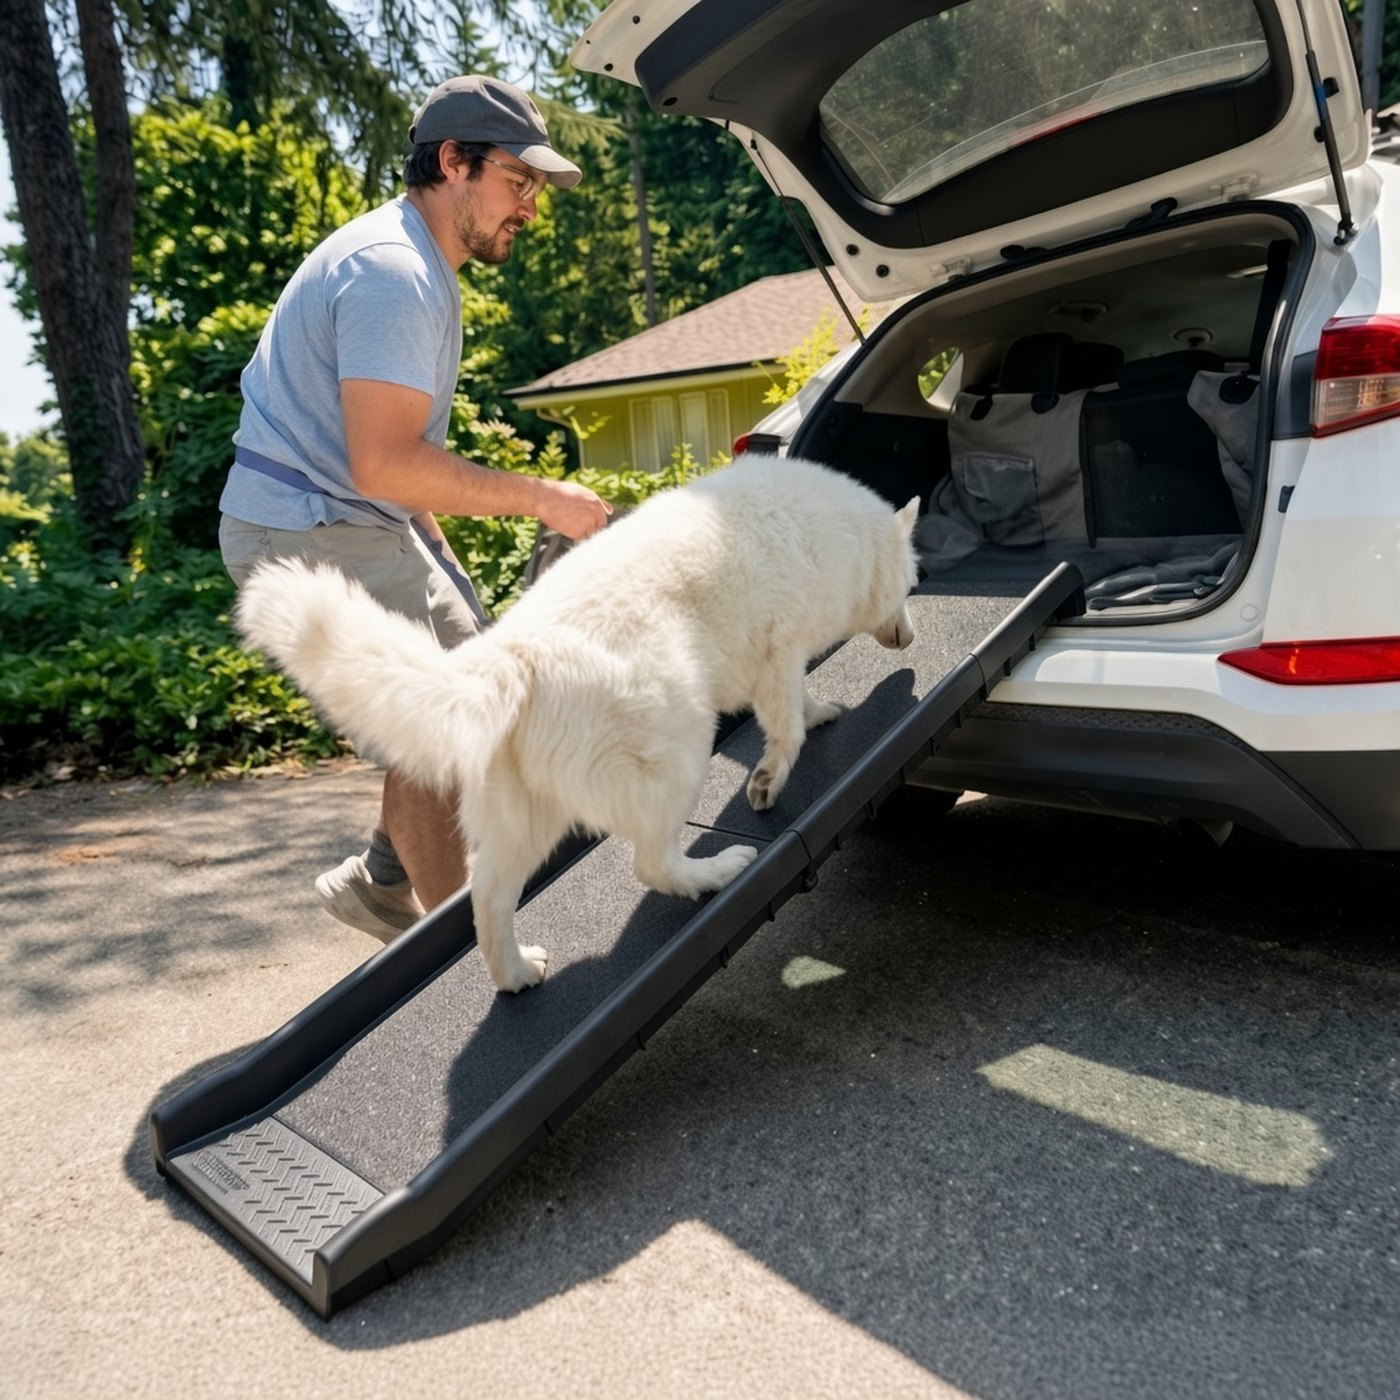
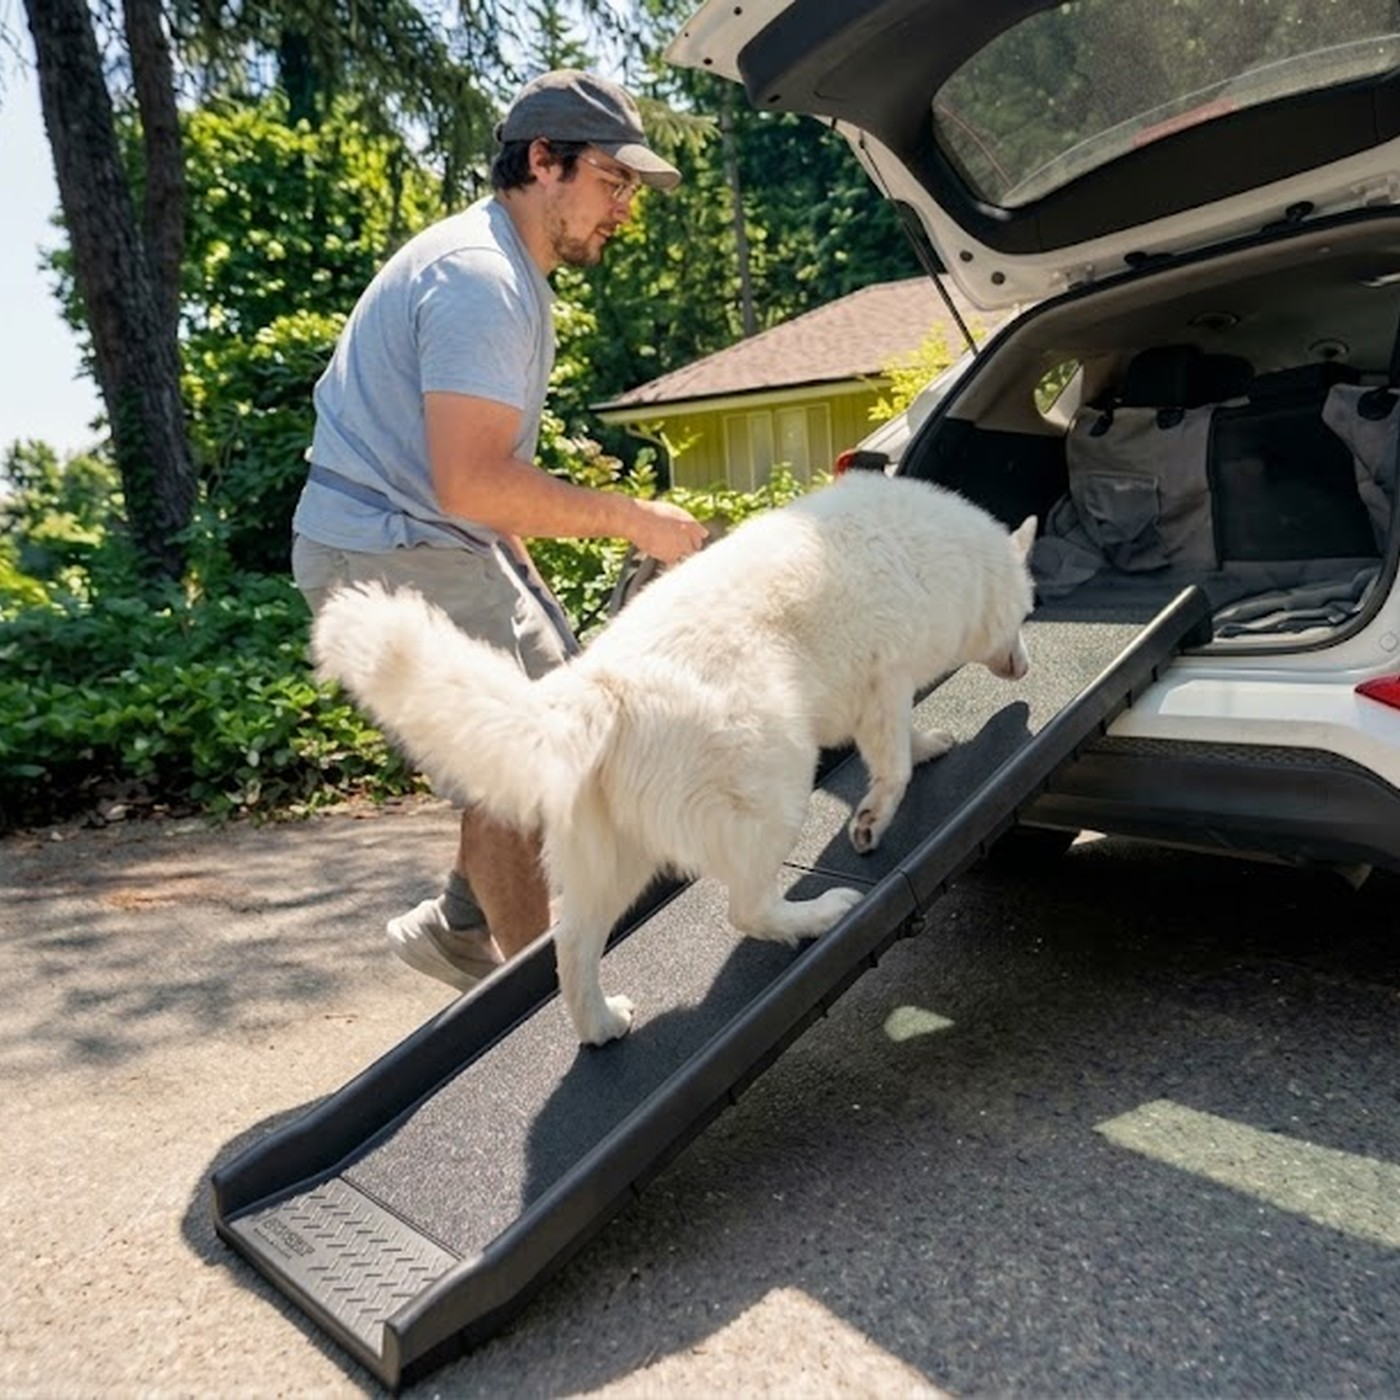
Give the homepage photo a product link and a sharper voice.
The hatchback photo opens the foldable car ramp and names what is in the frame. Shop copy across the homepage, catalog, guide, and footer is more specific, with no new claims. Four lifestyle photos are replaced with the newer set, still on the 1400 square canvas.

diff --git a/src/lib/catalog.ts b/src/lib/catalog.ts
@@ -42,8 +42,8 @@ export const CATALOG: readonly CatalogProduct[] = [
     slug: 'foldable-dog-car-ramp',
     shopifyHandle: PRODUCT_HANDLES.heroRamp,
     name: 'Paw-Grip Foldable Dog Car Ramp',
-    caption: 'Walks into the cargo area',
-    summary: 'Bi-fold car ramp with a Paw-Grip grit deck. Compact rated to 150 lb, Extended to 250 lb.',
+    caption: 'The walk into the cargo area',
+    summary: 'A bi-fold ramp with a grit deck and raised rails. Compact is rated to 150 lb and folds to 31″. Extended reaches 70″ and is rated to 250 lb.',
     price: TIERS[0].price,
     rating: 4.8,
     ratingCount: 214,
@@ -65,8 +65,8 @@ export const CATALOG: readonly CatalogProduct[] = [
     slug: 'side-door-pet-steps',
     shopifyHandle: PRODUCT_HANDLES.sideDoorSteps,
     name: 'Paw-Grip Side Door Pet Steps',
-    caption: 'Into the back seat',
-    summary: 'Steps that meet a vehicle side door, so a dog climbs into the back seat instead of being lifted.',
+    caption: 'The climb into the back seat',
+    summary: 'Steps that meet a side-door sill, with a platform at the top, so a dog walks into the back seat instead of being lifted over it.',
     price: 149.95,
     rating: 4.6,
     ratingCount: 73,
@@ -93,8 +93,8 @@ export const CATALOG: readonly CatalogProduct[] = [
     slug: 'bed-ramp',
     shopifyHandle: PRODUCT_HANDLES.bedRamp,
     name: 'Paw-Grip Bed Ramp',
-    caption: 'Up to the mattress',
-    summary: 'A ramp from the floor to the bed for a dog that has stopped jumping up.',
+    caption: 'From the floor to the mattress',
+    summary: 'A carpeted ramp that stays beside the bed, for a dog who has started hesitating before the jump up.',
     price: 129.95,
     rating: 4.7,
     ratingCount: 118,
@@ -131,8 +131,8 @@ export const CATALOG: readonly CatalogProduct[] = [
     slug: 'extra-long-telescoping-dog-ramp',
     shopifyHandle: PRODUCT_HANDLES.extraLongRamp,
     name: 'Paw-Grip Extra Long Telescoping Ramp',
-    caption: 'For tall truck beds',
-    summary: 'Telescopes from 47″ to 87″ when the cargo floor is too high for a fixed ramp.',
+    caption: 'When the truck bed is too high',
+    summary: 'Slides out from 47″ to 87″, so a tall cargo floor gets a longer, gentler slope, then collapses for the garage.',
     price: 189,
     rating: 4.5,
     ratingCount: 64,
@@ -154,8 +154,8 @@ export const CATALOG: readonly CatalogProduct[] = [
     slug: 'compact-telescoping-dog-ramp',
     shopifyHandle: PRODUCT_HANDLES.compactTelescoping,
     name: 'Paw-Grip Compact Telescoping Ramp',
-    caption: 'The short trunk',
-    summary: 'Telescopes from 28″ to 70″. The one that still fits a smaller trunk.',
+    caption: 'Length when you need it',
+    summary: 'Three sections that open from 28″ to 70″. Long enough for the cargo floor, short enough to live in a smaller trunk.',
     price: 159.99,
     rating: 4.3,
     ratingCount: 29,
@@ -177,8 +177,8 @@ export const CATALOG: readonly CatalogProduct[] = [
     slug: 'orthopedic-foam-bed-steps',
     shopifyHandle: PRODUCT_HANDLES.bedSteps,
     name: 'Paw-Grip Foam Bed Steps',
-    caption: 'Two steps to the couch',
-    summary: 'Foam steps for a couch or a low bed. Light enough to move between rooms.',
+    caption: 'The short climb to the couch',
+    summary: 'Foam steps you can carry from the couch to a low bed. Two sizes, rated to 80 lb, for the jump that happens all day inside the house.',
     price: 65,
     rating: 4.4,
     ratingCount: 41,
@@ -210,8 +210,8 @@ export const CATALOG: readonly CatalogProduct[] = [
     slug: 'dog-hitch-step',
     shopifyHandle: PRODUCT_HANDLES.hitchStep,
     name: 'Paw-Grip Hitch Step',
-    caption: 'A step at the tailgate',
-    summary: 'A hitch-mounted step for dogs who do better with one step than a long ramp.',
+    caption: 'One step at the tailgate',
+    summary: 'Mounts on the hitch and folds up for the drive. For the dog who plants a paw on a step more willingly than on a long ramp.',
     price: 89.95,
     rating: 4.6,
     ratingCount: 52,
@@ -253,8 +253,8 @@ export const CATALOG: readonly CatalogProduct[] = [
     slug: 'folding-pet-steps',
     shopifyHandle: PRODUCT_HANDLES.foldingSteps,
     name: 'Paw-Grip Folding Pet Steps',
-    caption: 'Flattens for the closet',
-    summary: 'Folding steps for inside the house. They flatten when you need the floor back.',
+    caption: 'Up for the evening, flat by morning',
+    summary: 'Folding steps for the couch or a low bed. They stand for the climb, then flatten when the room needs its floor back.',
     price: 74.95,
     rating: 4.5,
     ratingCount: 88,
@@ -291,8 +291,8 @@ export const CATALOG: readonly CatalogProduct[] = [
     slug: 'traction-mat',
     shopifyHandle: PRODUCT_HANDLES.tractionMat,
     name: 'Heavy-Duty Traction Mat (2-Pack)',
-    caption: 'Under the ramp',
-    summary: 'A mat under the feet of the ramp so it stays put on a smooth garage floor.',
+    caption: 'So the ramp stays planted',
+    summary: 'A pair of mats under the ramp feet. On a polished garage floor, they keep the ramp from creeping the moment a dog steps on.',
     price: ADDON_PRICES.tractionMat,
     rating: 4.7,
     ratingCount: 36,
@@ -308,8 +308,8 @@ export const CATALOG: readonly CatalogProduct[] = [
     slug: 'car-safety-tether',
     shopifyHandle: PRODUCT_HANDLES.carTether,
     name: 'Adjustable Car Safety Tether',
-    caption: 'Once they are in',
-    summary: 'An adjustable tether that clips to a harness so a dog can sit, stand, or lie down in the car.',
+    caption: 'Settled for the drive',
+    summary: 'Clips to a harness and the seatbelt. Enough slack to sit, stand, or lie down — not enough to roam the cabin.',
     price: ADDON_PRICES.carTether,
     rating: 4.6,
     ratingCount: 44,

diff --git a/src/pages/HomePage.tsx b/src/pages/HomePage.tsx
@@ -7,7 +7,7 @@ import { ProductCard } from '../components/ProductCard';
 const JOBS = [
   {
     title: 'Into the cargo area',
-    caption: 'The bi-fold, for SUVs and hatchbacks',
+    caption: 'The bi-fold grit ramp, for the cargo floor of an SUV or a hatchback',
     image: '/assets/product/grit/ramp-german-shepherd-suv.jpg',
     alt: 'A German Shepherd walking up a ramp into an SUV',
     frame: 'lg:object-[center_22%]',
@@ -15,7 +15,7 @@ const JOBS = [
   },
   {
     title: 'Into the back seat',
-    caption: 'Steps at the side door',
+    caption: 'Steps that meet the sill, so the back seat is a walk, not a lift',
     image: '/assets/catalog/side-door-steps.jpg',
     alt: 'Pet steps at a vehicle side door',
     frame: 'lg:object-center',
@@ -23,7 +23,7 @@ const JOBS = [
   },
   {
     title: 'Onto the bed',
-    caption: 'A ramp that stays in the bedroom',
+    caption: 'For the dog who pauses at the mattress and waits to be helped',
     image: '/assets/catalog/bed-ramp.jpg',
     alt: 'A ramp from the floor to a bed',
     frame: 'lg:object-[center_58%]',
@@ -38,18 +38,27 @@ export const HomePage: React.FC = () => {
   return (
     <main>
       <section className="mx-auto grid max-w-6xl items-center gap-5 px-4 py-5 sm:px-6 sm:py-8 lg:grid-cols-[auto_minmax(0,1fr)] lg:gap-12 lg:py-8">
-        <img
-          src="/assets/product/grit/ramp-boxer-hatchback.jpg"
-          alt="A brindle Boxer stepping onto the Paw-Grip ramp at the hatch of a blue hatchback while its owner watches"
-          className="order-2 aspect-square w-full rounded-2xl bg-white object-contain lg:order-1 lg:h-auto lg:max-h-[min(28rem,calc(100svh-13rem))] lg:w-auto"
-        />
+        <Link
+          to={{ pathname: productPath(flagship), search }}
+          className="order-2 block rounded-2xl focus-visible:outline focus-visible:outline-2 focus-visible:outline-offset-4 focus-visible:outline-[#0F6E62] lg:order-1"
+        >
+          <img
+            src="/assets/product/grit/ramp-boxer-hatchback.jpg"
+            alt="A brindle Boxer stepping onto the Paw-Grip ramp at the hatch of a blue hatchback while its owner watches"
+            className="aspect-square w-full rounded-2xl bg-white object-contain lg:h-auto lg:max-h-[min(28rem,calc(100svh-16rem))] lg:w-auto"
+          />
+          <span className="mt-3 block text-sm leading-snug">
+            <span className="font-bold text-[#14202B]">Foldable dog car ramp.</span>{' '}
+            <span className="text-[#5C6B73]">A Boxer takes the grit deck into a hatchback. This photo opens that ramp.</span>
+          </span>
+        </Link>
         <div className="order-1 lg:order-2">
           <p className="text-sm font-bold uppercase tracking-wide text-[#0F6E62]">Dog ramps and stairs</p>
           <h1 className="mt-2 text-4xl font-extrabold leading-[1.05] tracking-tight text-[#14202B] sm:mt-3 sm:text-5xl">
             A way up for the car, the bed, and the back seat.
           </h1>
           <p className="mt-3 max-w-md text-lg text-[#5C6B73] sm:mt-4">
-            Paw-Grip is a shop for getting a pet up without a lift. Start with the foldable car ramp, or look through stairs and longer ramps.
+            The leap from a hatchback is a hard landing. The hoist into an SUV is your back. Between them is a walk: a foldable ramp with a grit deck, and stairs for the bed, the couch, and the side door.
           </p>
           <div className="mt-5 flex flex-wrap items-center gap-4 lg:mt-8">
             <Link
@@ -68,6 +77,7 @@ export const HomePage: React.FC = () => {
       <section className="bg-[#F3F6F7]">
         <div className="mx-auto max-w-6xl px-4 py-12 sm:px-6 lg:py-10">
           <h2 className="text-2xl font-extrabold tracking-tight sm:text-3xl">Shop by the job</h2>
+          <p className="mt-2 max-w-xl text-[#5C6B73]">Three places a dog gets stuck. Pick the one you are solving today.</p>
           <div className="mt-8 grid gap-4 sm:grid-cols-3">
             {JOBS.map((job) => {
               const product = CATALOG.find((item) => item.slug === job.slug)!;
@@ -91,9 +101,9 @@ export const HomePage: React.FC = () => {
 
       <section className="mx-auto max-w-6xl px-4 py-12 sm:px-6 lg:py-12">
         <div className="flex items-end justify-between gap-4">
-          <h2 className="text-2xl font-extrabold tracking-tight sm:text-3xl">In the shop</h2>
+          <h2 className="text-2xl font-extrabold tracking-tight sm:text-3xl">The ramp for the job</h2>
           <Link to={{ pathname: '/dog-ramps', search }} className="text-sm font-bold text-[#0F6E62]">
-            See all
+            See the whole shop
           </Link>
         </div>
         <div className="mt-8 grid grid-cols-2 gap-4 lg:grid-cols-4">
@@ -106,9 +116,9 @@ export const HomePage: React.FC = () => {
       <section className="bg-[#14202B] text-white">
         <div className="mx-auto grid max-w-6xl gap-8 px-4 py-12 sm:px-6 lg:grid-cols-2 lg:items-center lg:py-12">
           <div>
-            <h2 className="text-2xl font-extrabold tracking-tight sm:text-3xl">Not sure of the length?</h2>
+            <h2 className="text-2xl font-extrabold tracking-tight sm:text-3xl">A short ramp is a steep ramp.</h2>
             <p className="mt-3 text-white/80">
-              Measure from the ground to the cargo floor. The size finder on the car ramp picks Compact or Extended from that number.
+              Measure from the ground to the cargo floor. The size finder turns that number into Compact or Extended, so the slope stays a walk.
             </p>
             <Link
               to={{ pathname: '/products/foldable-dog-car-ramp', hash: 'size-guide', search }}

diff --git a/src/pages/InfoPages.tsx b/src/pages/InfoPages.tsx
@@ -16,13 +16,13 @@ export const AboutPage: React.FC = () => (
     <h1>About Paw-Grip</h1>
     <p className="text-sm text-[#5C6B73]">Last updated: October 2026</p>
     <p>
-      Paw-Grip is a shop for dog ramps and stairs: into the car, onto the bed, and up to the back seat.
-      The foldable car ramp is the product we size in detail. The rest of the catalog is here so you can match the ramp to the job.
+      Paw-Grip is the shop for the moment a dog stops making the jump: into the cargo area, onto the bed, or up to the back seat.
+      The foldable car ramp is the one we size down to the inch. Everything else is here so the ramp matches the job, not a guess.
     </p>
     <h2>Why this exists</h2>
     <p>
-      Every day, owners of big and aging dogs make the same trade: lift 70 lb into the trunk, or watch the dog jump.
-      A ramp should be long enough for the vehicle, rated for the dog it is sold to, and plain about what it is.
+      Big dogs and older dogs leave their people with the same choice: hoist them into the trunk, or watch the jump.
+      A ramp should be long enough for that vehicle, rated for the dog it is sold to, and plain about both.
     </p>
     <h2>How we work</h2>
     <ul>
@@ -252,7 +252,9 @@ export const GuidePage: React.FC = () => {
     <main className={prose}>
       <p className="text-sm font-bold uppercase tracking-wide text-[#0F6E62]">Buyer&apos;s guide</p>
       <h1>How to choose a dog car ramp</h1>
-      <p>Measure first. A ramp that is too short for the vehicle becomes a wall the dog will not walk.</p>
+      <p>
+        Start with a tape measure, not a guess. A ramp that is too short for the bumper turns into a wall, and a dog who has refused it once will refuse it again.
+      </p>
       <h2>1. Measure the vehicle</h2>
       <p>
         Measure from the ground to the surface the dog steps onto — the bumper edge or the cargo floor. Low sedans are often around 20–24″, most SUVs 26–30″, lifted trucks 32–42″.

diff --git a/index.html b/index.html
@@ -28,7 +28,7 @@
     <title>Paw-Grip — Dog ramps and stairs</title>
     <meta
       name="description"
-      content="Paw-Grip is a shop for dog ramps and stairs: a foldable car ramp rated to 150 lb (Compact) or 250 lb (Extended), plus steps for the bed, the couch, and the back seat."
+      content="Paw-Grip makes the jump a walk: a foldable car ramp rated to 150 lb (Compact) or 250 lb (Extended), plus stairs for the bed, the couch, and the back seat."
     />
     <meta
       name="keywords"
@@ -42,7 +42,7 @@
     <meta property="og:title" content="Paw-Grip — Dog ramps and stairs" />
     <meta
       property="og:description"
-      content="A shop for dog ramps and stairs. The foldable car ramp is rated to 150 lb (Compact) or 250 lb (Extended)."
+      content="The jump becomes a walk. A foldable car ramp rated to 150 lb (Compact) or 250 lb (Extended), plus stairs for the bed, the couch, and the back seat."
     />
     <meta property="og:image" content="https://pawgrip.app/assets/product/grit/ramp-german-shepherd-suv.jpg" />
     <meta property="og:url" content="https://pawgrip.app/" />
@@ -54,7 +54,7 @@
     <meta name="twitter:title" content="Paw-Grip — Dog ramps and stairs" />
     <meta
       name="twitter:description"
-      content="A shop for dog ramps and stairs. The foldable car ramp is rated to 150 lb (Compact) or 250 lb (Extended)."
+      content="The jump becomes a walk. A foldable car ramp rated to 150 lb (Compact) or 250 lb (Extended), plus stairs for the bed, the couch, and the back seat."
     />
     <meta name="twitter:image" content="https://pawgrip.app/assets/product/grit/ramp-german-shepherd-suv.jpg" />
 

diff --git a/src/components/Footer.tsx b/src/components/Footer.tsx
@@ -72,16 +72,16 @@ export const Footer: React.FC = () => {
       <div className="border-b border-stone-800">
         <div className="mx-auto max-w-4xl px-4 py-14 text-center sm:px-6">
           <h2 className="text-3xl font-bold tracking-tight text-white sm:text-4xl">
-            Give Your Dog an Easier Ride
+            The walk in. Not the hoist.
           </h2>
           <p className="mx-auto mt-3 max-w-xl text-stone-400">
-            {POLICY.returnDays}-day risk-free trial, free insured shipping, free returns.
+            {POLICY.returnDays} days to try it in your own car, free insured shipping, and a full refund if the dog will not take it.
           </p>
           <a
             href="/products/foldable-dog-car-ramp"
             className="mt-7 inline-flex min-h-12 items-center gap-2 rounded-md bg-[#F37021] px-9 py-4 text-lg font-bold text-white shadow-sm transition-colors hover:bg-[#D95E1A]"
           >
-            Shop Paw-Grip
+            Shop the car ramp
           </a>
         </div>
       </div>

diff --git a/src/pages/CategoryPage.tsx b/src/pages/CategoryPage.tsx
@@ -79,7 +79,13 @@ export const CategoryPage: React.FC = () => {
       <div className="mt-4 flex flex-wrap items-end justify-between gap-4">
         <div>
           <h1 className="text-3xl font-extrabold tracking-tight sm:text-4xl">{heading}</h1>
-          {q ? <p className="mt-2 text-[#5C6B73]">Results for “{params.get('q')}”</p> : null}
+          {q ? (
+            <p className="mt-2 text-[#5C6B73]">Results for “{params.get('q')}”</p>
+          ) : (
+            <p className="mt-2 max-w-xl text-[#5C6B73]">
+              Cargo area, back seat, bed, or couch. Filter to the place the dog is stuck, then open the one that fits.
+            </p>
+          )}
         </div>
         <label className="text-sm font-semibold">
           <span className="mr-2 text-[#5C6B73]">Sort by</span>

diff --git a/src/components/HeroSection.tsx b/src/components/HeroSection.tsx
@@ -150,8 +150,8 @@ export const HeroSection: React.FC = () => {
 
       {/* One short supporting line — values single-sourced from offers.ts. */}
       <p className="mt-3 text-[1rem] text-stone-600 sm:text-[1.0625rem]">
-        Stop lifting your dog into the {dki.vehicleInline}. The Paw-Grip deck gives
-        paws real traction, and the {compact.rampWeightLb}&nbsp;lb ramp folds in half
+        Quit the hoist into the {dki.vehicleInline}. Paws meet a grit deck, side rails
+        keep the walk narrow, and this {compact.rampWeightLb}&nbsp;lb ramp folds in half
         to {compact.foldedIn}&Prime; for the trunk.
       </p>
 

diff --git a/src/lib/assets.ts b/src/lib/assets.ts
@@ -95,7 +95,7 @@ export const ASSETS = {
     {
       src: '/assets/product/revised/ramp-scene-carrying-folded.jpg',
       alt:
-        'A man carrying the folded Paw-Grip ramp beside a white SUV while a white dog waits in the cargo area',
+        'A man holding the folded Paw-Grip ramp at the open hatch of a white SUV while a white dog waits in the cargo area',
       label: 'Folds in half',
     },
     {

diff --git a/claims.md b/claims.md
@@ -186,6 +186,14 @@ Uploaded to Shopify by `scripts/shopify-product-images.mjs`
   Star ratings on these cards are numeric test ratings (see rule 2). There
   is no review text.
 
+## Voice pass (October 2026)
+
+Homepage, catalog summaries, the car-ramp supporting line, About, the buyer's guide opening, the category lede, and the footer call to action were rewritten for a more specific voice. No new specification, rating, medical outcome, or customer-count claim was added. "A hard landing" describes the jump itself, not a diagnosis. Policy numbers still come from `policy.ts`.
+
+The homepage hero photo is a link to the foldable car ramp, with a caption that names the product in the picture.
+
+Four lifestyle frames (shepherd SUV, boxer hatchback, white dog, folded ramp at the hatch) were replaced with the owner's newer photographs, cover-cropped to the same 1400×1400 JPEG canvas, metadata stripped.
+
 ## Test catalog (October 2026)
 
 | Where | What changed | Why |
